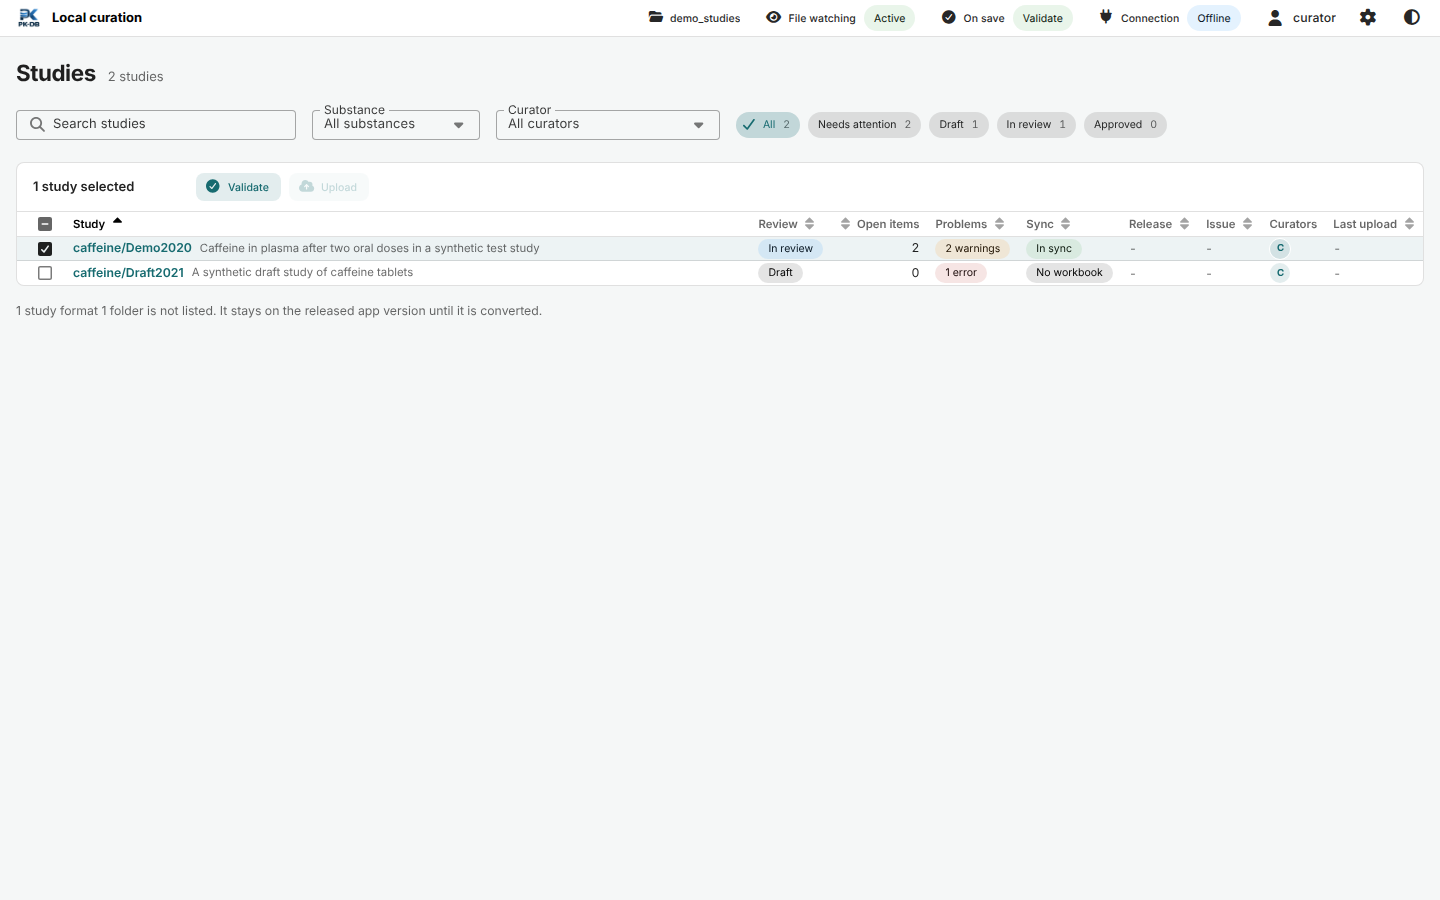
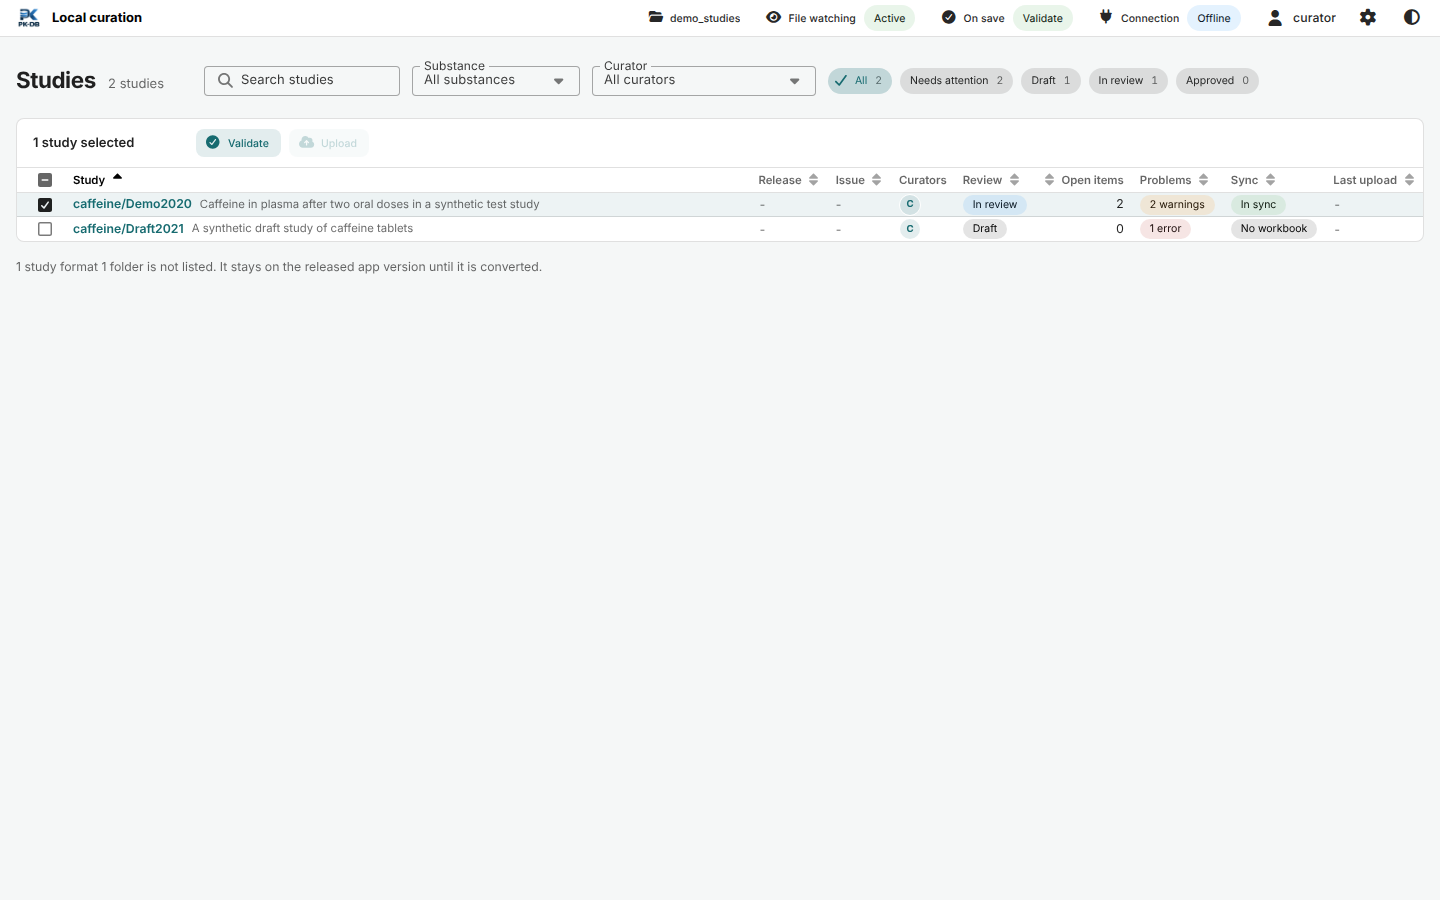
Describe the columns and the header line of the overview in the curation guide

diff --git a/docs/local-curation.md b/docs/local-curation.md
@@ -75,14 +75,16 @@ The overview renders only the rows in view, so the browser's own find (Ctrl+F, C
 | Column | Shows |
 | --- | --- |
 | Study | The identity and the title. Two folders with the same identity are marked **Duplicate identity**. The tooltip of the identity shows it whole, and when the tables of the study name other substance folders, it lists them below it, such as **+ enalapril**. |
+| Release | The PKDB identifier of the release in `study.json`. |
+| Issue | The GitHub issue of the study, from `issue` in `study.json`. GitHub is read with `GH_TOKEN` or `GITHUB_TOKEN`, see the [environment table](python-client.md#environment-variables). |
+| Curators | The curators, with names and pictures from the curator roster that comes with `pkdb`, also offline. |
 | Review | The status of `review.json` (Draft, In review or Approved), and **AI** for an automatic curation. |
 | Open items | The number of open review items. |
 | Problems | The errors and warnings of the last validation, or **valid**, and what the study is doing, such as **Validating**. |
 | Sync | The sync status of the workbook and the tables, see [Data](#data). |
-| Release | The PKDB identifier of the release in `study.json`. |
-| Issue | The GitHub issue of the study, from `issue` in `study.json`. GitHub is read with `GH_TOKEN` or `GITHUB_TOKEN`, see the [environment table](python-client.md#environment-variables). |
-| Curators | The curators, with names and pictures from the curator roster that comes with `pkdb`, also offline. |
 | Last upload | The time of the last upload, with a link to the study on PK-DB. |
+
+The search, the filters **Substance** and **Curator** and the status chips stand on one line with the heading **Studies** and the number of studies. In a narrower window the status chips move to a second line first.
 
 **Search studies** matches the identity and the title, and the table follows it when you pause typing. **Substance** shows the studies of one substance: those in its folder and those whose interventions or data name it, such as aliskiren/Nussberger2002 under enalapril. It uses the rule of the substance labels of the study issues, see [GitHub issues of studies](python-client.md#github-issues-of-studies). The app serves the substances it saved in the state directory and reads only the tables that changed; the first start in a workspace takes a few seconds before the filter is complete. **Curator** shows the studies of one curator of `study.json`, with the number of their studies. **Me**, the first curator, is the PK-DB user of the app, so it shows your own studies. The status chips **All**, **Needs attention**, **Draft**, **In review** and **Approved** count their studies. **Needs attention** lists the studies with errors, with a sync conflict, or with open items while they are in review. Click a column header to sort by it; every column except Curators sorts. The filters and the sort order stay while the app runs, also when you open a study and return, and start again in another workspace. Click a row to open the study.
 

diff --git a/release-notes/unreleased.md b/release-notes/unreleased.md
@@ -1,3 +1,4 @@
 # Unreleased
 
+- The overview of the local curation app shows the release, the issue and the curators of a study right after the study, before its review status, open items, problems and sync status, and puts the search, the Substance and Curator filters and the status chips on one line with the heading and the number of studies; in a narrower window the status chips move to a second line first (#964, #965).
 - On save of the local curation app is one setting for the workspace, the server and the PK-DB account, in a menu of the top bar beside File watching, instead of an action per study (#966). The menu lists Validate, Upload and Off with what a save then does; Upload asks to confirm first, and offline or without an account that may upload it is disabled and says why. The overview loses the On save column and the On save select of its batch toolbar, and the tab line of a study loses On save. `GET /local/state` has `mode` once instead of in every study row, and `POST /local/mode` takes only `mode`. The actions per study that pkdb 0.12 saved are not taken over: On save starts at Validate, and pkdb 0.12 keeps reading its own.
